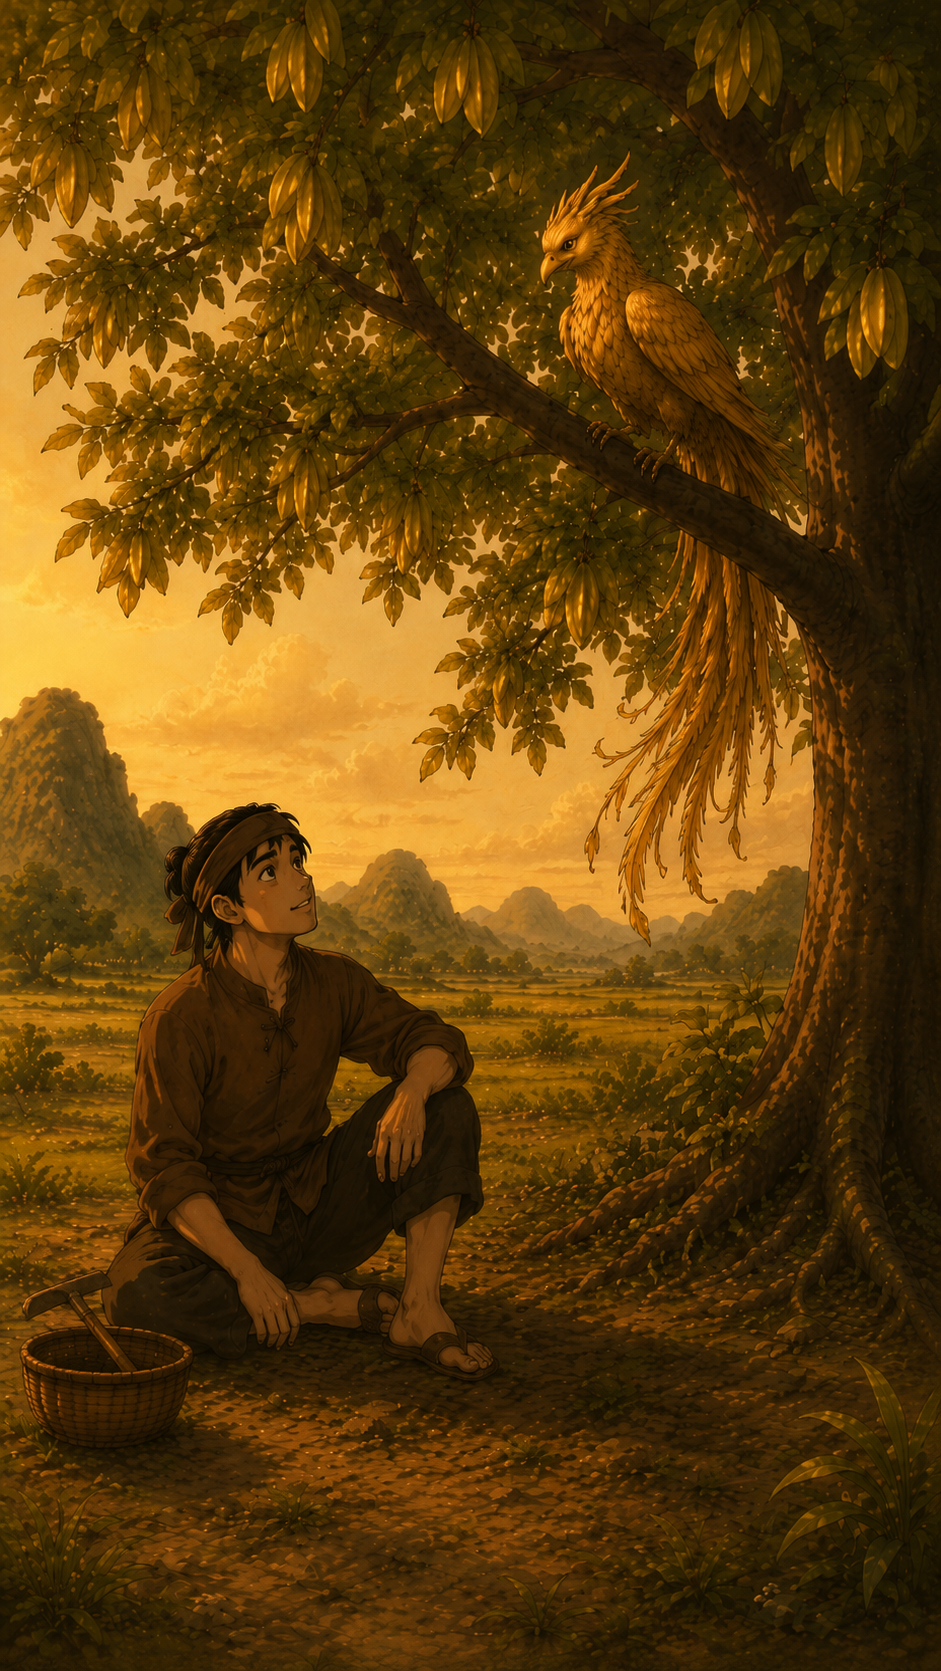
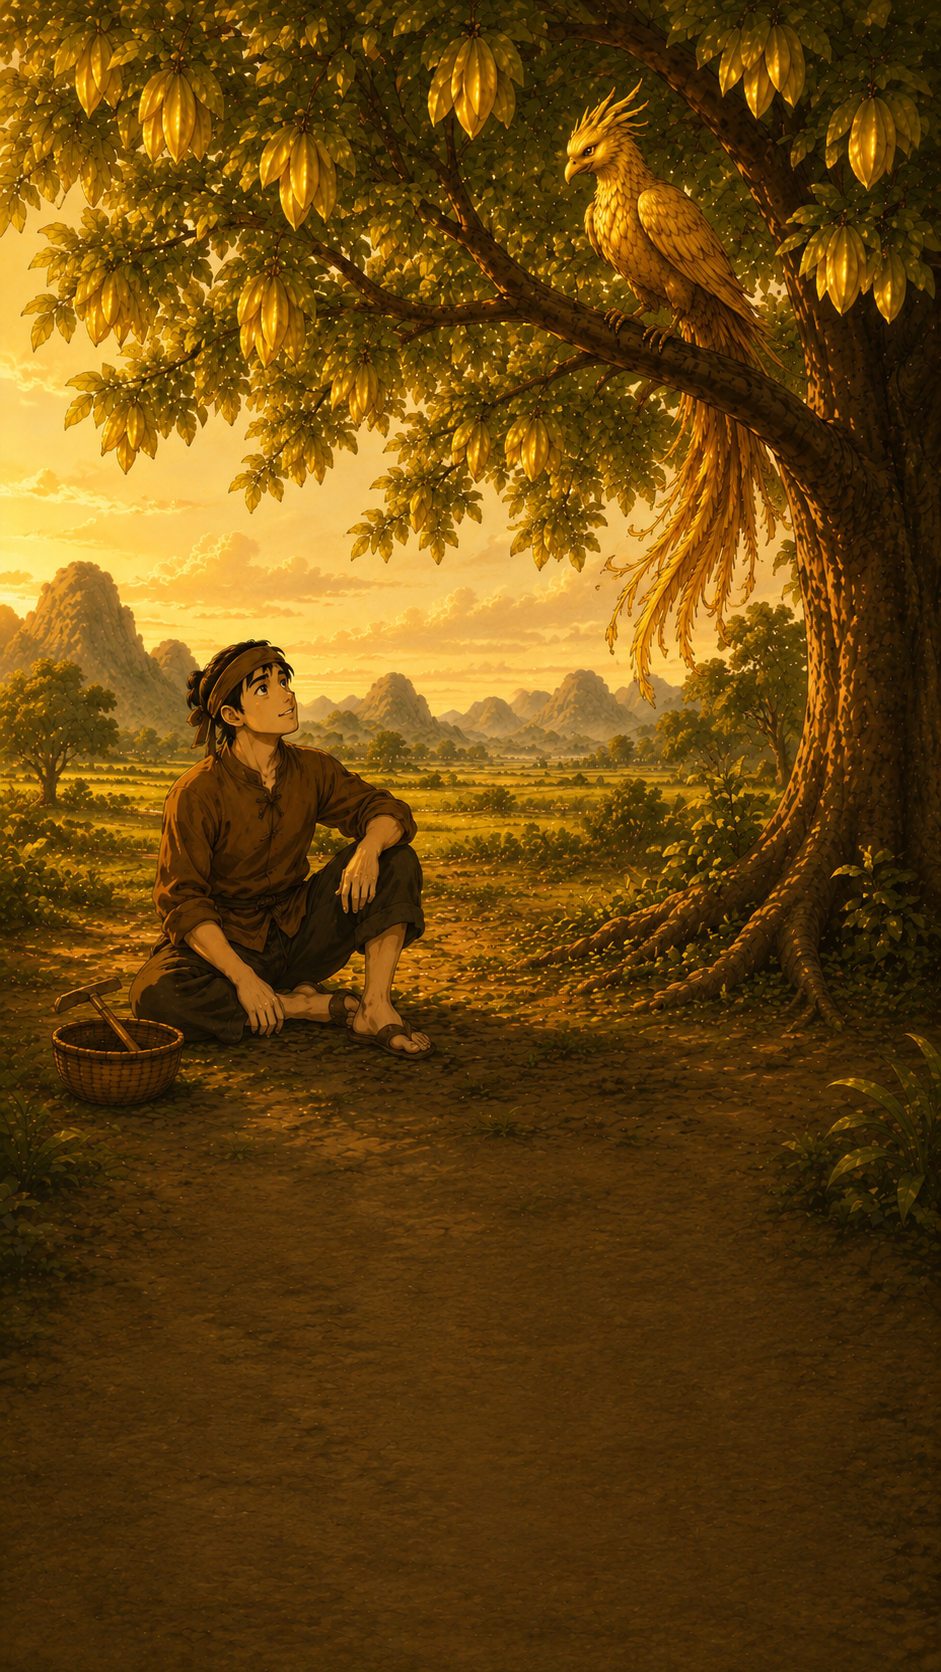
fix the gap in option screen with 2-option case

diff --git a/lib/screens/story/options_screen.dart b/lib/screens/story/options_screen.dart
@@ -35,7 +35,8 @@ class OptionsScreen extends StatelessWidget {
               ? layout.contentWidth(362, landscapeValue: 420)
               : layout.maxWidth(362, padding: horizontalPadding);
           final choiceHeight = layout.s(60).clamp(52.0, 60.0);
-          final portraitPromptTop = layout.y(464);
+          final portraitPromptOffset = node.choices.length <= 2 ? 488.0 : 464.0;
+          final portraitPromptTop = layout.y(portraitPromptOffset);
           final portraitPromptMax = constraints.maxHeight * 0.56;
           final safePortraitPromptTop = portraitPromptMax < 390
               ? portraitPromptMax
@@ -43,7 +44,8 @@ class OptionsScreen extends StatelessWidget {
           final promptTop = layout.isLandscape
               ? layout.y(214).clamp(150.0, constraints.maxHeight * 0.36)
               : safePortraitPromptTop;
-          final portraitChoicesTop = promptTop + layout.y(164);
+          final portraitChoiceOffset = node.choices.length <= 2 ? 180.0 : 188.0;
+          final portraitChoicesTop = promptTop + layout.y(portraitChoiceOffset);
           final portraitChoicesMin = promptTop + 140;
           final portraitChoicesMax = constraints.maxHeight - 220;
           final safePortraitChoicesTop = portraitChoicesMax < portraitChoicesMin
@@ -82,7 +84,10 @@ class OptionsScreen extends StatelessWidget {
                 right: layout.isLandscape ? 0 : horizontalPadding,
                 top: choicesTop,
                 bottom: layout.gap(18),
-                child: Center(
+                child: Align(
+                  alignment: layout.isLandscape
+                      ? Alignment.center
+                      : Alignment.topCenter,
                   child: SizedBox(
                     width: layout.isLandscape ? contentWidth : null,
                     child: SingleChildScrollView(

diff --git a/lib/screens/bird/conversation_with_bird_screen.dart b/lib/screens/bird/conversation_with_bird_screen.dart
@@ -157,7 +157,7 @@ class _BirdBubble extends StatelessWidget {
                     text,
                     style: TextStyle(
                       color: const Color(0xffd4b072),
-                      fontSize: layout.font(11),
+                      fontSize: layout.font(14),
                       height: 1.35,
                       fontWeight: FontWeight.w700,
                     ),
@@ -214,7 +214,7 @@ class _UserBubble extends StatelessWidget {
                     text,
                     style: TextStyle(
                       color: const Color(0xffd8c58f),
-                      fontSize: layout.font(10),
+                      fontSize: layout.font(14),
                       height: 1.5,
                       fontWeight: FontWeight.w700,
                     ),
